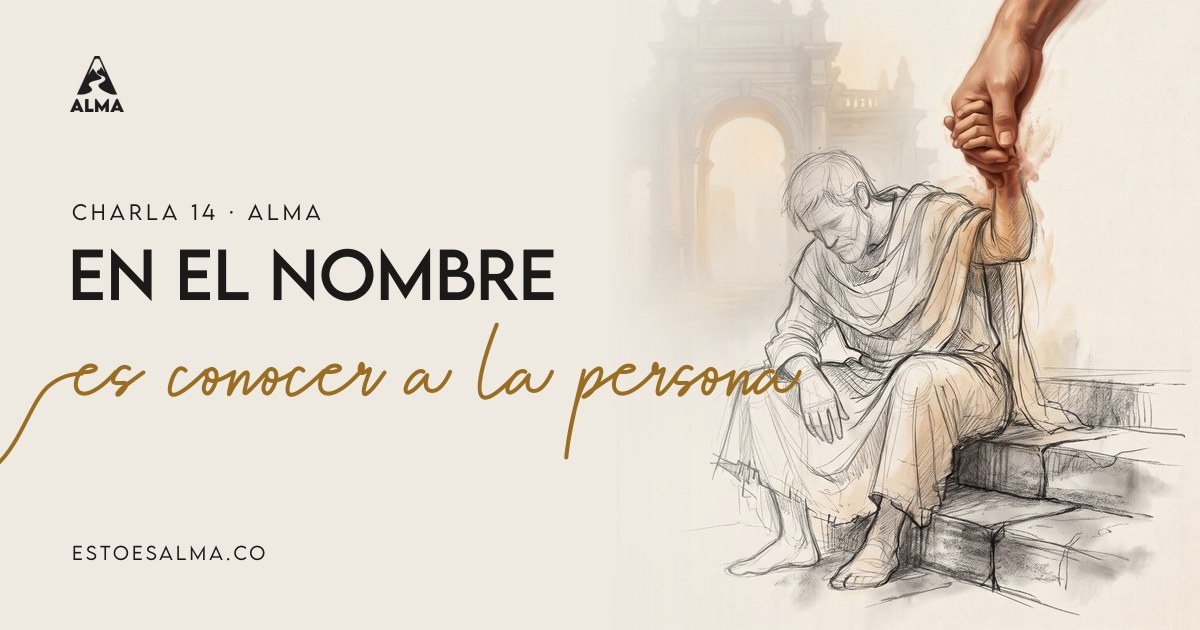
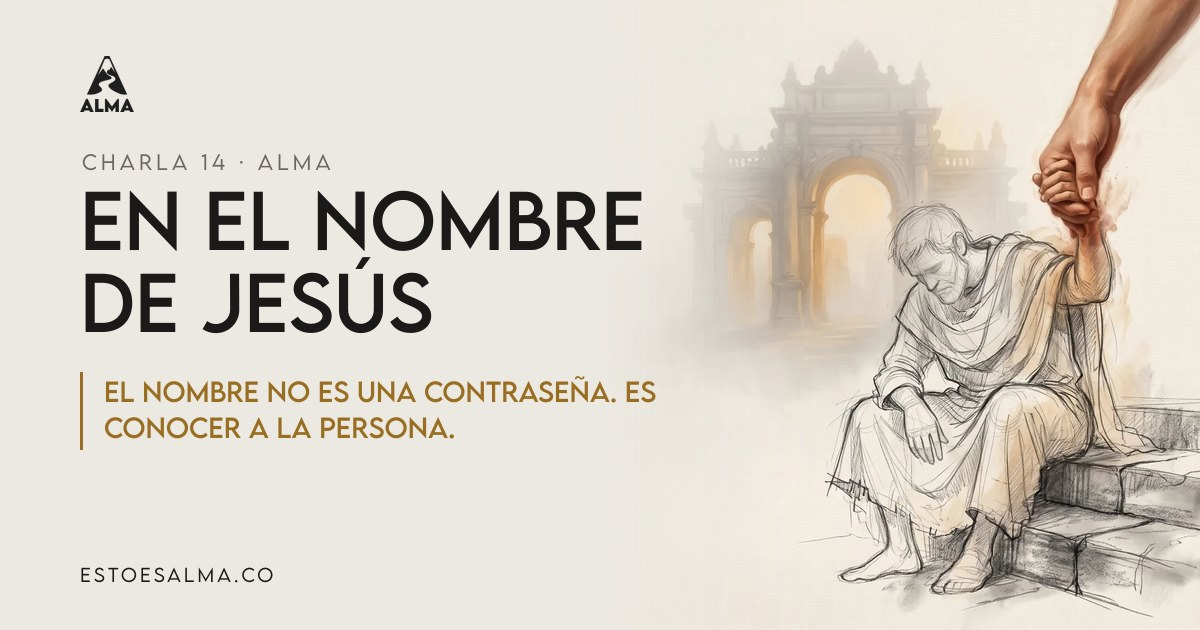
La charla 14 pasa a llamarse En el nombre de Jesús
Claude-Session: https://claude.ai/code/session_015uNT5hNuyGAWoKbgHnHxUP

diff --git a/content/charlas.ts b/content/charlas.ts
@@ -61,7 +61,7 @@ export const CHARLAS: Charla[] = [
   {
     slug: 'en-el-nombre',
     n: 14,
-    titulo: 'En el nombre',
+    titulo: 'En el nombre de Jesús',
     bloque: 'jesus',
     frase: 'El nombre no es una contraseña. Es conocer a la persona.',
     fraseCorta: 'El nombre no es una contraseña.',

diff --git a/scripts/og.py b/scripts/og.py
@@ -39,7 +39,7 @@ def esc(t):
 logo_b64 = base64.b64encode(open(LOGO, 'rb').read()).decode()
 lw, lh = Image.open(LOGO).size
 todas = '--todas' in sys.argv
-MANUALES = {'en-el-nombre'}
+MANUALES = set()
 
 for c in charlas:
     destino = os.path.join(SALIDA, f"{c['slug']}-og.jpg")
